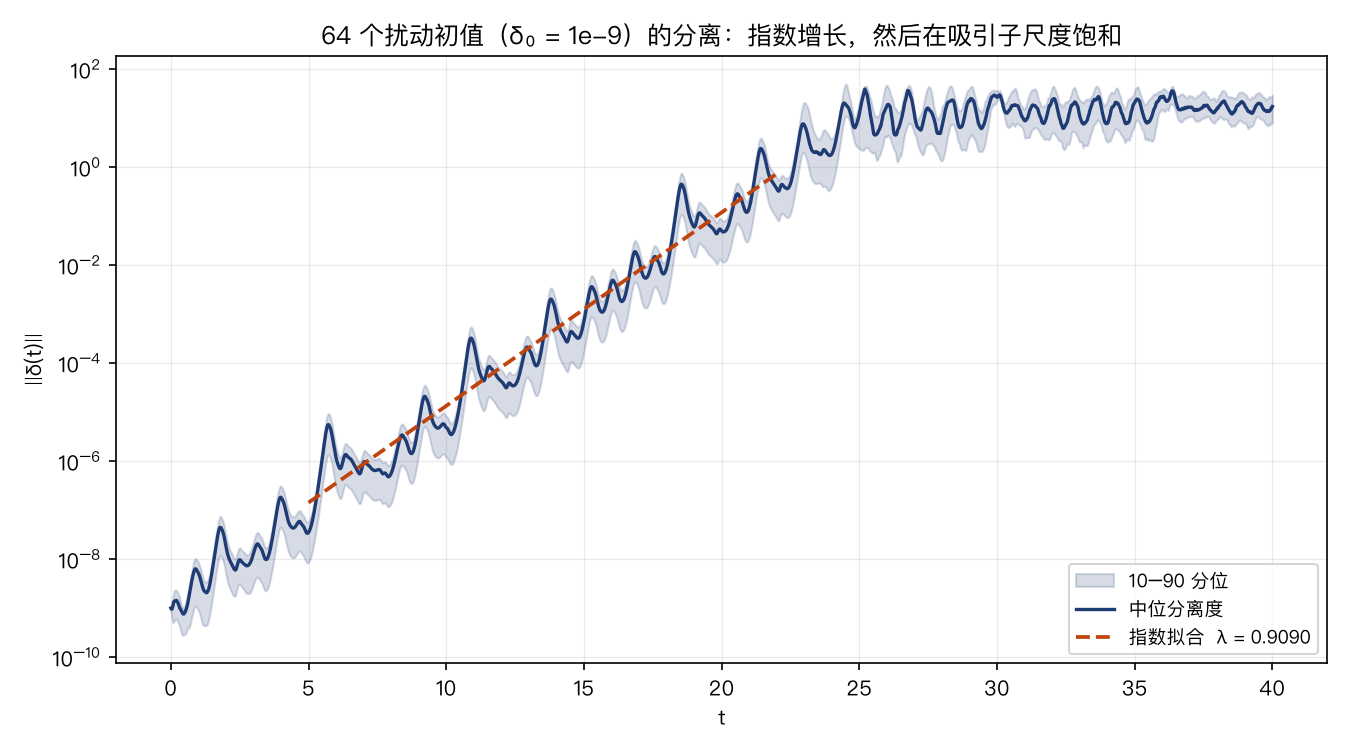
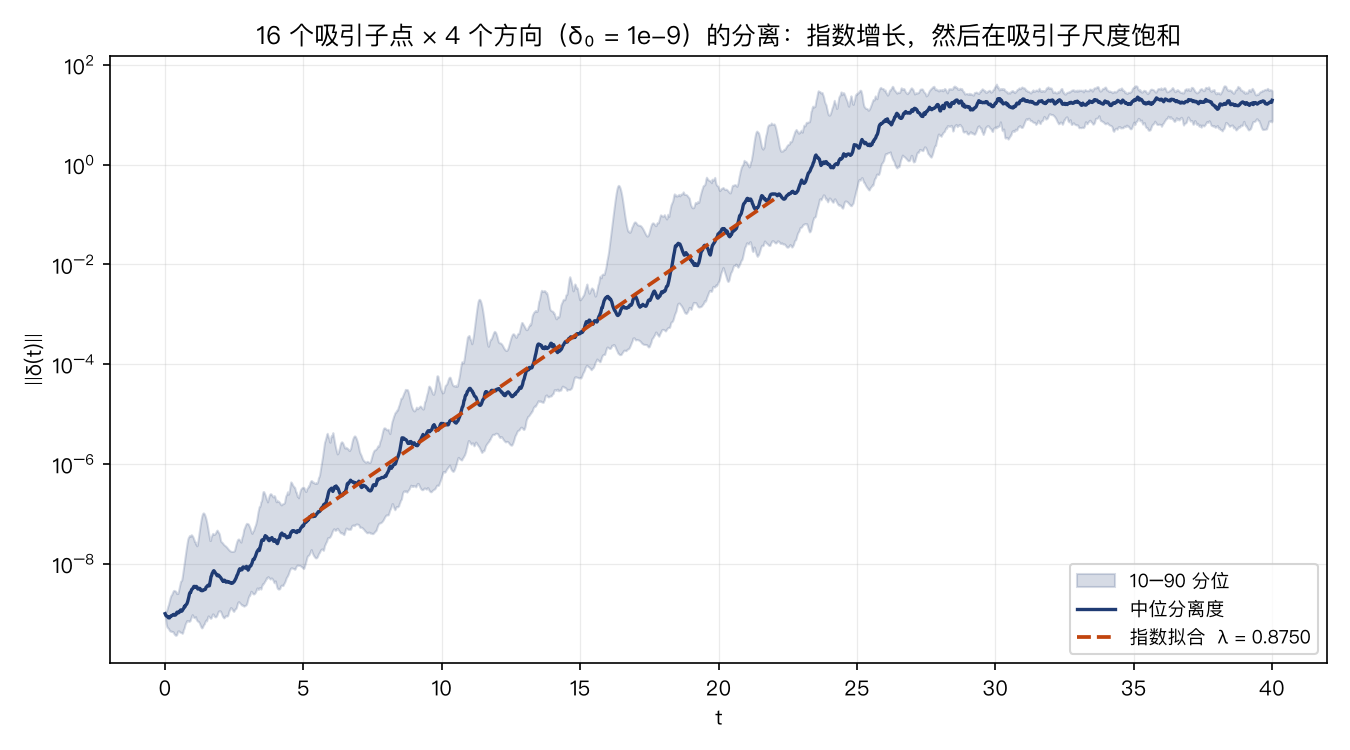
系综估计 λ₁ 改为合并 16 个吸引子点：单个基点在 [5,15] 上量到的是有限时间指数，换起点斜率在 0.4–1.3 之间跳，CI 机器的浮点差异把基点挪到别处就得到 0.597、测试时红时绿
ensemble_growth 沿一条轨道每 5 个时间单位取一个基点（默认 16 点 × 4 方向），对全部成员取中位。
24 个随机起点上的估计：单基点 sd 0.17、2/24 超出 ±30%；16 点 × 2 方向 sd 0.03、全部在 ±15% 内。
fig07 同样用 16 × 4 = 64 个成员重算，斜率 0.8750；报告与幻灯片的数字、说明随之更新。

diff --git a/src/lorenz63/predictability.py b/src/lorenz63/predictability.py
@@ -145,10 +145,10 @@ def tolerance_sweep(
 
 @dataclass(frozen=True, slots=True)
 class EnsembleGrowth:
-    """Separation of an ensemble of slightly perturbed initial conditions."""
+    """Separation of slightly perturbed copies of several attractor states."""
 
     t: NDArray[np.floating]
-    separations: NDArray[np.floating]  # (n_members, n_times)
+    separations: NDArray[np.floating]  # (n_bases * n_members, n_times)
     delta0: float
 
     @property
@@ -175,35 +175,48 @@ class EnsembleGrowth:
 def ensemble_growth(
     p: LorenzParams,
     *,
-    n_members: int = 64,
+    n_bases: int = 16,
+    n_members: int = 4,
+    base_spacing: float = 5.0,
     delta0: float = 1e-9,
     t_end: float = 40.0,
     dt_out: float = 0.02,
     seed: int = 20260922,
 ) -> EnsembleGrowth:
-    """Perturb one attractor state in many random directions and watch them part.
+    """Perturb several attractor states in random directions and watch them part.
 
     An independent route to lambda_1: the exponential envelope of the median
     separation. It should agree with the Benettin value without sharing any code
     with it.
+
+    The base states are ``n_bases`` points ``base_spacing`` apart along one
+    trajectory, each perturbed in ``n_members`` directions. A single base state
+    measures the finite-time exponent of the stretch of attractor its 10-20
+    time units of growth happen to cover, which ranges from about 0.4 to 1.3;
+    pooling bases spread over the attractor is what makes the median slope an
+    estimate of lambda_1. Random directions add little on their own, since
+    members of one base all align with its unstable direction within a few
+    time units.
     """
     rng = np.random.default_rng(seed)
-    base_u0 = on_attractor(p)
-    base = reference_trajectory(p, base_u0, t_end, dt_out=dt_out)
+    path = reference_trajectory(
+        p, on_attractor(p), base_spacing * (n_bases - 1), dt_out=base_spacing
+    )
 
-    directions = rng.normal(size=(n_members, 3))
-    directions /= np.linalg.norm(directions, axis=1, keepdims=True)
+    seps = []
+    for base_u0 in path.u:
+        base = reference_trajectory(p, base_u0, t_end, dt_out=dt_out)
+        directions = rng.normal(size=(n_members, 3))
+        directions /= np.linalg.norm(directions, axis=1, keepdims=True)
+        for direction in directions:
+            member = solve_adaptive(
+                p,
+                base_u0 + delta0 * direction,
+                t_end,
+                rtol=REFERENCE_RTOL,
+                atol=REFERENCE_ATOL,
+                dt_out=dt_out,
+            )
+            seps.append(separation(base, member))
 
-    seps = np.empty((n_members, base.t.size))
-    for k, direction in enumerate(directions):
-        member = solve_adaptive(
-            p,
-            base_u0 + delta0 * direction,
-            t_end,
-            rtol=REFERENCE_RTOL,
-            atol=REFERENCE_ATOL,
-            dt_out=dt_out,
-        )
-        seps[k] = separation(base, member)
-
-    return EnsembleGrowth(t=base.t, separations=seps, delta0=delta0)
+    return EnsembleGrowth(t=base.t, separations=np.array(seps), delta0=delta0)

diff --git a/tests/test_predictability.py b/tests/test_predictability.py
@@ -77,8 +77,11 @@ def test_precision_buys_only_logarithmic_time() -> None:
 @pytest.mark.slow
 def test_ensemble_growth_recovers_lambda_1_independently() -> None:
     """No variational equation here -- just perturbed initial conditions."""
-    growth = ensemble_growth(CLASSICAL, n_members=24, delta0=1e-9, t_end=30.0)
-    assert growth.separations.shape[0] == 24
+    n_bases, n_members = 16, 2
+    growth = ensemble_growth(
+        CLASSICAL, n_bases=n_bases, n_members=n_members, delta0=1e-9, t_end=30.0
+    )
+    assert growth.separations.shape[0] == n_bases * n_members
     # Fit inside the exponential window: above the initial transient, below
     # saturation at the attractor's diameter.
     slope, _ = growth.fit_exponent(5.0, 15.0)
@@ -89,7 +92,7 @@ def test_ensemble_growth_recovers_lambda_1_independently() -> None:
 
 @pytest.mark.slow
 def test_quantile_band_is_ordered() -> None:
-    growth = ensemble_growth(CLASSICAL, n_members=16, delta0=1e-9, t_end=10.0)
+    growth = ensemble_growth(CLASSICAL, n_bases=4, n_members=4, delta0=1e-9, t_end=10.0)
     lo, hi = growth.quantiles()
     assert np.all(lo <= growth.median + 1e-15)
     assert np.all(growth.median <= hi + 1e-15)

diff --git a/src/lorenz63/figures.py b/src/lorenz63/figures.py
@@ -451,13 +451,15 @@ def fig07_ensemble(output: Path) -> Path:
     )
     ax.set_xlabel("t")
     ax.set_ylabel("‖δ(t)‖")
-    ax.set_title("64 个扰动初值（δ₀ = 1e-9）的分离：指数增长，然后在吸引子尺度饱和")
+    ax.set_title("16 个吸引子点 × 4 个方向（δ₀ = 1e-9）的分离：指数增长，然后在吸引子尺度饱和")
     ax.legend(loc="lower right", fontsize=9)
     return _finish(fig, output, "fig07_ensemble")
 
 
 def _ensemble_data() -> dict[str, NDArray]:
-    growth = ensemble_growth(CLASSICAL, n_members=64, delta0=1e-9, t_end=40.0, dt_out=0.02)
+    growth = ensemble_growth(
+        CLASSICAL, n_bases=16, n_members=4, delta0=1e-9, t_end=40.0, dt_out=0.02
+    )
     lo, hi = growth.quantiles()
     slope, intercept = growth.fit_exponent(5.0, 22.0)
     return {

diff --git a/report/report.md b/report/report.md
@@ -330,11 +330,11 @@ $$
 
 ### 5.2 误差怎么长
 
-取一个吸引子上的点，沿 64 个随机方向扰动 δ₀=1e-9，全部用参考精度积分：
+沿一条轨道每隔 5 个时间单位取一个点，共 16 个吸引子点，每个点沿 4 个随机方向扰动 δ₀=1e-9，全部用参考精度积分。只扰动一个点量到的是那一段轨道的有限时间指数——换一个起点，[5,15] 上的斜率可以落在 0.4 到 1.3 之间；把散布在吸引子上的点合在一起取中位，才是 λ₁ 的估计：
 
 ![系综增长](figures/fig07_ensemble.png)
 
-中位分离度在 t∈[5,22] 内呈干净的指数，拟合斜率 **0.9090**——与 Benettin 的 0.9038 相差 0.6%，而这两条路径**没有共用任何代码**（一个解变分方程，一个只是扰动初值）。之后曲线在吸引子直径处饱和：误差不会无限增长，它只是增长到"毫无信息"为止。
+中位分离度在 t∈[5,22] 内呈干净的指数，拟合斜率 **0.8750**——与 Benettin 的 0.9038 相差 3.2%，而这两条路径**没有共用任何代码**（一个解变分方程，一个只是扰动初值）。之后曲线在吸引子直径处饱和：误差不会无限增长，它只是增长到"毫无信息"为止。
 
 由此得到两个数字：
 
@@ -492,7 +492,7 @@ uv run lorenz63 figure all     # 重建 report/figures/ 下全部图
 | λ₂ | −0.000411 | Benettin, T=2000 |
 | λ₃ | −14.570019 | Benettin, T=2000 |
 | Σλᵢ 与 tr J 的偏差 | 2.17×10⁻⁹ | 自洽检验 |
-| λ₁（系综独立估计） | 0.9090 | 64 个扰动初值 |
+| λ₁（系综独立估计） | 0.8750 | 16 点 × 4 方向 |
 | λ₁（容差斜率独立估计） | 0.9595 | T_div 拟合 |
 | D_KY | 2.062001 | λ 谱 |
 | 倍增时间 | 0.766956 | ln2/λ₁ |
